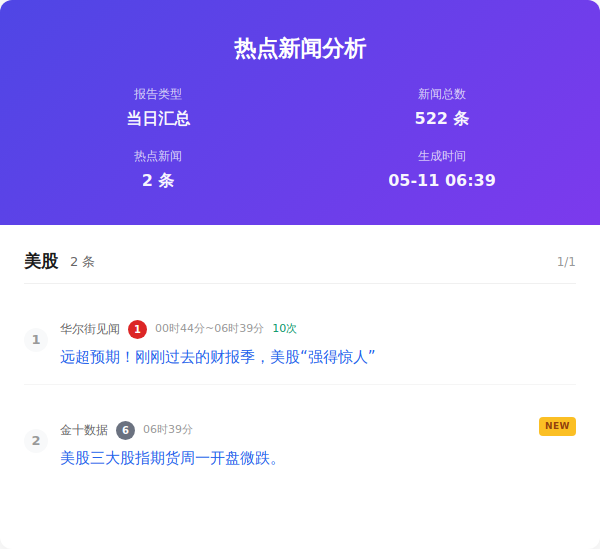
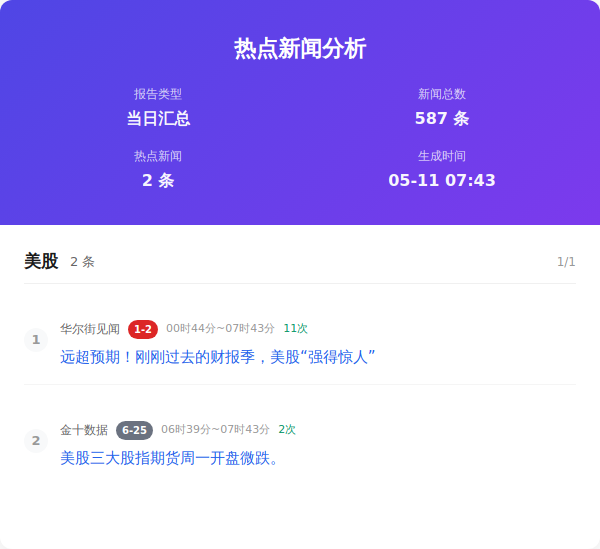
Auto update by GitHub Actions at Mon May 11 07:43:28 CST 2026

diff --git a/output/2026年05月11日/html/当日汇总.html b/output/2026年05月11日/html/当日汇总.html
@@ -357,7 +357,7 @@
                     </div>
                     <div class="info-item">
                         <span class="info-label">新闻总数</span>
-                        <span class="info-value">522 条</span>
+                        <span class="info-value">587 条</span>
                     </div>
                     <div class="info-item">
                         <span class="info-label">热点新闻</span>
@@ -365,7 +365,7 @@
                     </div>
                     <div class="info-item">
                         <span class="info-label">生成时间</span>
-                        <span class="info-value">05-11 06:39</span>
+                        <span class="info-value">05-11 07:43</span>
                     </div>
                 </div>
             </div>
@@ -383,17 +383,17 @@
                         <div class="news-number">1</div>
                         <div class="news-content">
                             <div class="news-header">
-                                <span class="source-name">华尔街见闻</span><span class="rank-num top">1</span><span class="time-info">00时44分~06时39分</span><span class="count-info">10次</span>
+                                <span class="source-name">华尔街见闻</span><span class="rank-num top">1-2</span><span class="time-info">00时44分~07时43分</span><span class="count-info">11次</span>
                             </div>
                             <div class="news-title"><a href="https://wallstreetcn.com/articles/3771916" target="_blank" class="news-link">远超预期！刚刚过去的财报季，美股“强得惊人”</a>
                             </div>
                         </div>
                     </div>
-                    <div class="news-item new">
+                    <div class="news-item ">
                         <div class="news-number">2</div>
                         <div class="news-content">
                             <div class="news-header">
-                                <span class="source-name">金十数据</span><span class="rank-num ">6</span><span class="time-info">06时39分</span>
+                                <span class="source-name">金十数据</span><span class="rank-num ">6-25</span><span class="time-info">06时39分~07时43分</span><span class="count-info">2次</span>
                             </div>
                             <div class="news-title"><a href="https://flash.jin10.com/detail/20260511060044695800" target="_blank" class="news-link">美股三大股指期货周一开盘微跌。</a>
                             </div>